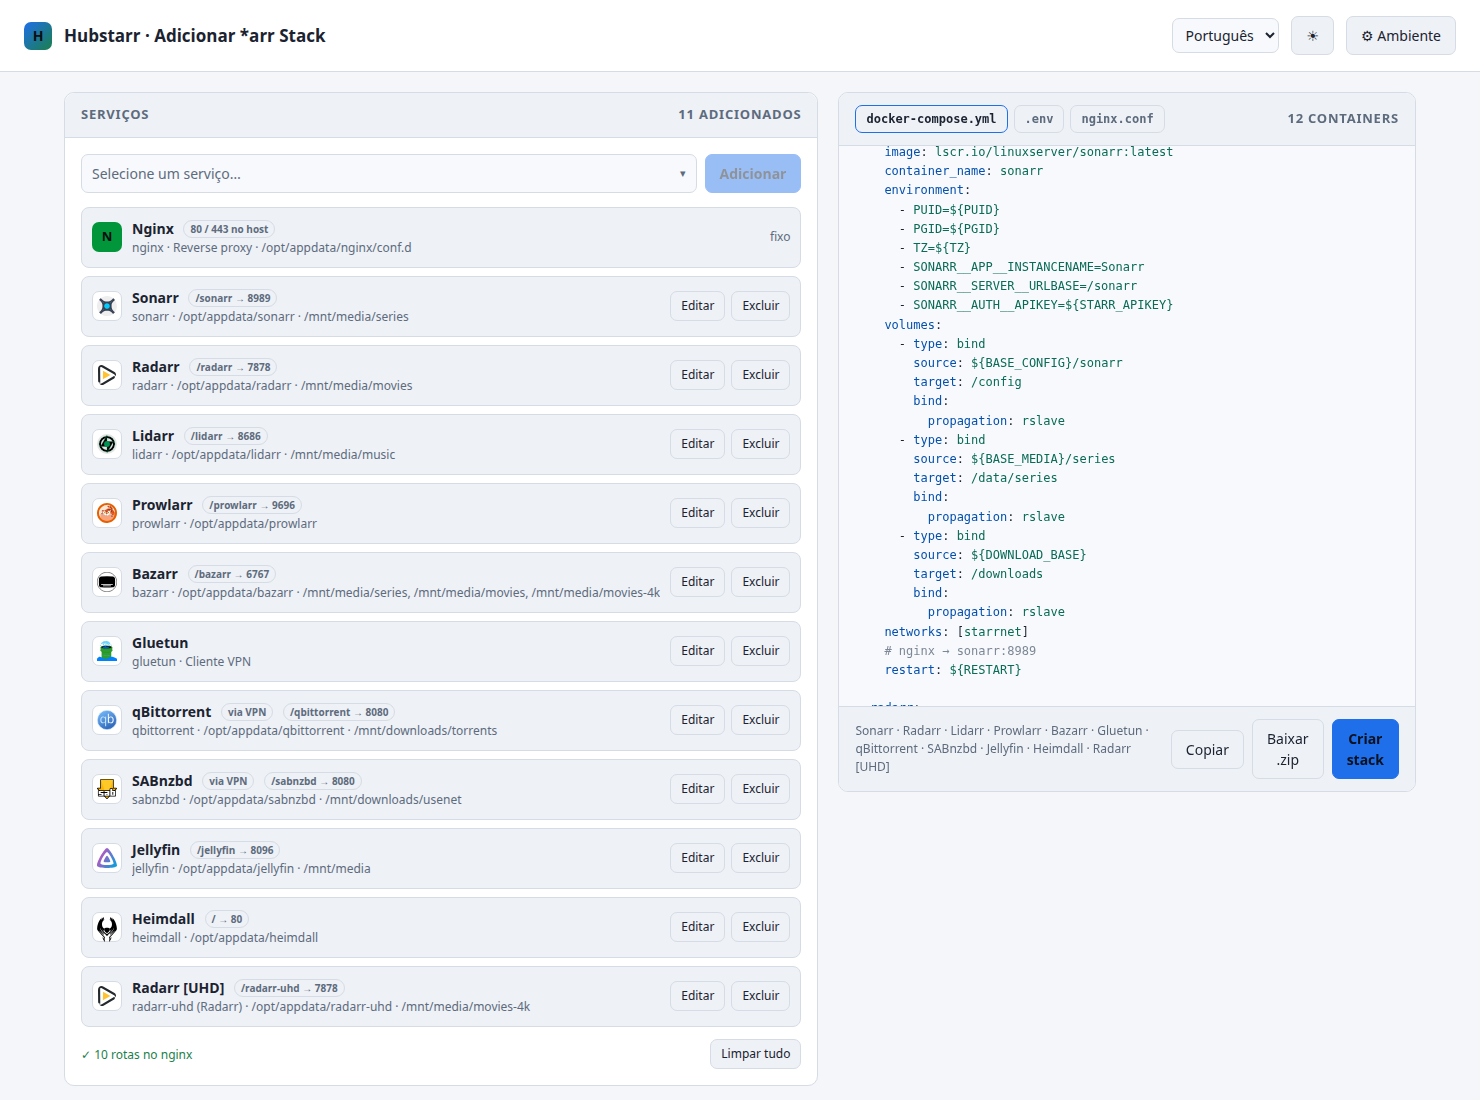
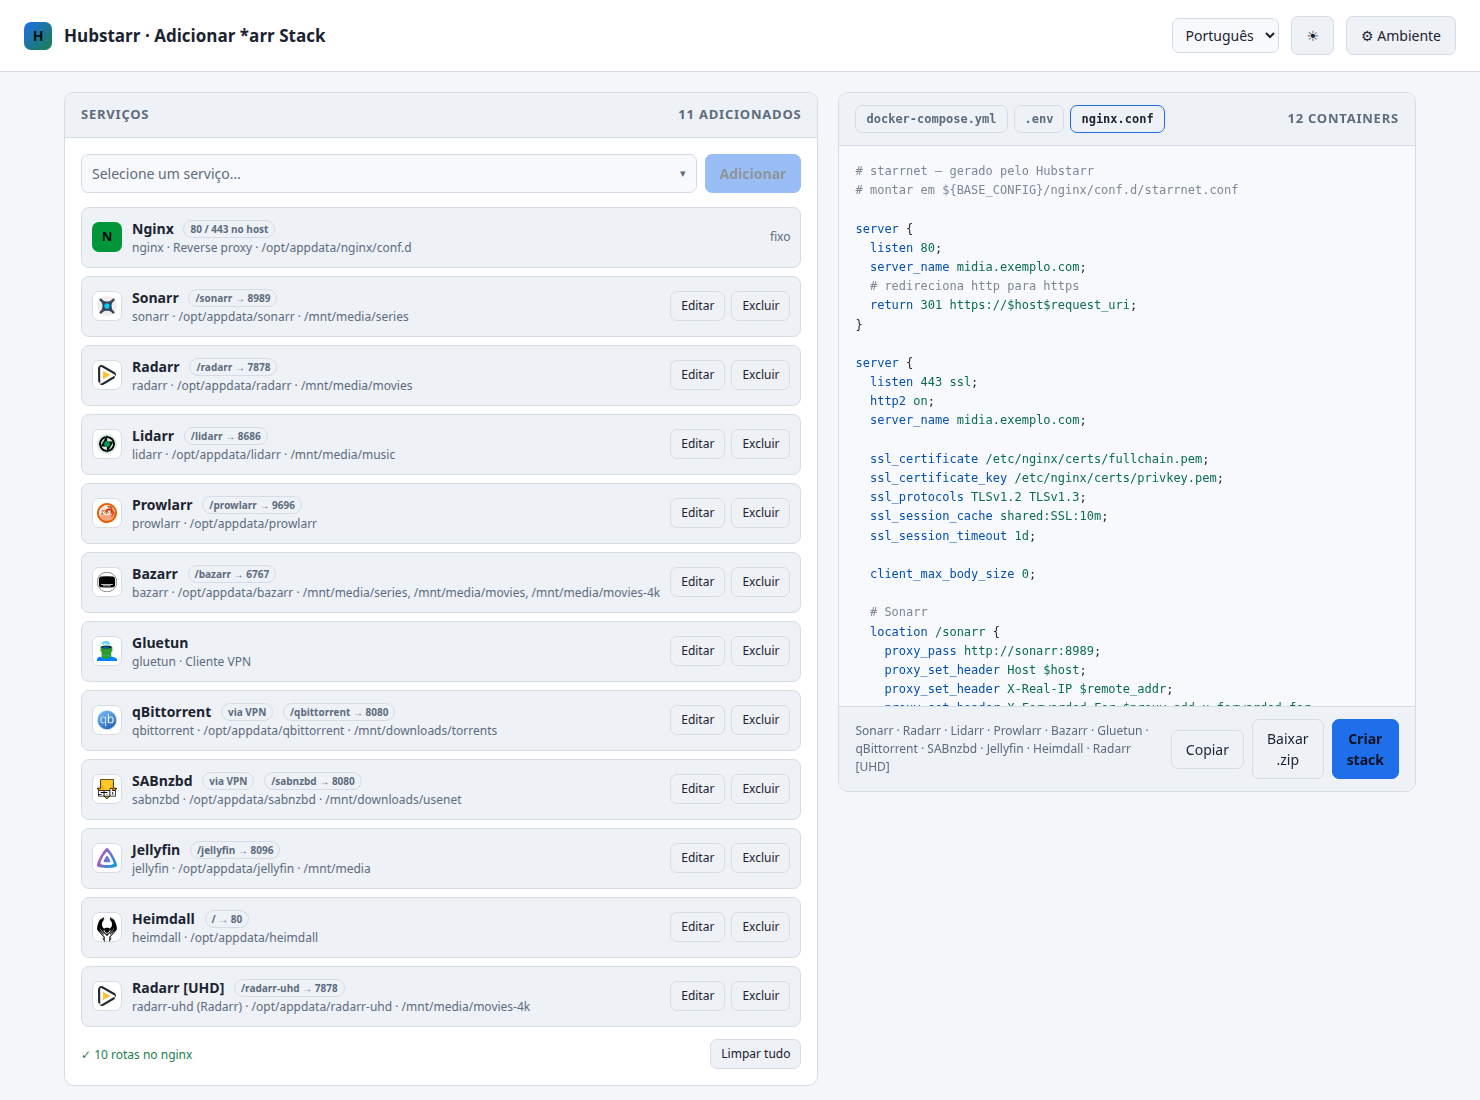
Serve a stack por HTTPS, com certificado configurável
O Ambiente ganha uma seção TLS: liga o https, o domínio vira server_name e os
caminhos do certificado e da chave, que são do host, entram no compose como
${TLS_CERT} e ${TLS_KEY}, montados só-leitura em /etc/nginx/certs.

Com o TLS ligado o nginx.conf passa a ter o server na 443 — TLSv1.2/1.3, http2
e cache de sessão — e um na 80 que só redireciona. Desligado, nada muda.

Claude-Session: https://claude.ai/code/session_015LuLcnjAzBdqJZcLS8RGMy

Changed region(s): [[0.5905, 0.0927, 0.8081, 0.6491]]

diff --git a/arr-stack-prototype.html b/arr-stack-prototype.html
@@ -220,6 +220,20 @@
       <p class="hint" data-i18n-html="env.apiHint" style="margin:-2px 0 12px"></p>
 
       <h4 style="margin:18px 0 10px;font-size:12px;text-transform:uppercase;
+                 letter-spacing:.06em;color:var(--muted)" data-i18n="env.secTls">TLS</h4>
+      <div class="row"><label for="eTls" data-i18n="env.tlsOn">Servir HTTPS</label>
+        <label class="check"><input type="checkbox" id="eTls"> 443</label></div>
+      <div class="row"><label for="eDomain" data-i18n="env.domain">Domínio</label>
+        <input type="text" id="eDomain" data-i18n-ph="env.phDomain"></div>
+      <div id="eTlsRows">
+        <div class="row"><label for="eCert" data-i18n="env.cert">Certificado (host)</label>
+          <input type="text" id="eCert"></div>
+        <div class="row"><label for="eTlsKey" data-i18n="env.key">Chave privada (host)</label>
+          <input type="text" id="eTlsKey"></div>
+      </div>
+      <p class="hint" data-i18n-html="env.tlsHint" style="margin:-2px 0 12px"></p>
+
+      <h4 style="margin:18px 0 10px;font-size:12px;text-transform:uppercase;
                  letter-spacing:.06em;color:var(--muted)" data-i18n="env.vpn">VPN (gluetun)</h4>
       <div class="row"><label for="eVpnProv" data-i18n="env.provider">Provedor</label>
         <input type="text" id="eVpnProv" placeholder="mullvad, protonvpn, nordvpn…"></div>
@@ -377,6 +391,14 @@ const I18N = {
   'env.secApi':'API key (*arr)',
   'env.apiHint':'A mesma chave vale para todos os *arr, como um <b>openssl rand -hex 16</b>.',
   'btn.gen':'Gerar',
+  'env.secTls':'TLS',
+  'env.tlsOn':'Servir HTTPS',
+  'env.domain':'Domínio',
+  'env.cert':'Certificado (host)',
+  'env.key':'Chave privada (host)',
+  'env.tlsHint':'Os caminhos são do host e entram no compose como <b>${TLS_CERT}</b> e <b>${TLS_KEY}</b>, montados só-leitura no nginx. Sem TLS, a stack fica só na porta 80.',
+  'env.phDomain':'midia.seudominio.com',
+  'ngx.redirect':'redireciona http para https',
   'env.phProvider':'seu-provedor',
   'env.phKey':'SUA_CHAVE_PRIVADA',
   'env.phUser':'usuario',
@@ -489,6 +511,14 @@ const I18N = {
   'env.secApi':'API key (*arr)',
   'env.apiHint':'One key for every *arr, like an <b>openssl rand -hex 16</b>.',
   'btn.gen':'Generate',
+  'env.secTls':'TLS',
+  'env.tlsOn':'Serve HTTPS',
+  'env.domain':'Domain',
+  'env.cert':'Certificate (host)',
+  'env.key':'Private key (host)',
+  'env.tlsHint':'These are host paths; they land in the compose file as <b>${TLS_CERT}</b> and <b>${TLS_KEY}</b>, mounted read-only into nginx. Without TLS the stack stays on port 80 only.',
+  'env.phDomain':'media.yourdomain.com',
+  'ngx.redirect':'redirects http to https',
   'env.phProvider':'your-provider',
   'env.phKey':'YOUR_PRIVATE_KEY',
   'env.phUser':'username',
@@ -601,6 +631,14 @@ const I18N = {
   'env.secApi':'API key (*arr)',
   'env.apiHint':'La misma clave vale para todos los *arr, como un <b>openssl rand -hex 16</b>.',
   'btn.gen':'Generar',
+  'env.secTls':'TLS',
+  'env.tlsOn':'Servir HTTPS',
+  'env.domain':'Dominio',
+  'env.cert':'Certificado (host)',
+  'env.key':'Clave privada (host)',
+  'env.tlsHint':'Las rutas son del host y entran en el compose como <b>${TLS_CERT}</b> y <b>${TLS_KEY}</b>, montadas de solo lectura en nginx. Sin TLS, la stack se queda solo en el puerto 80.',
+  'env.phDomain':'media.tudominio.com',
+  'ngx.redirect':'redirige http a https',
   'env.phProvider':'tu-proveedor',
   'env.phKey':'TU_CLAVE_PRIVADA',
   'env.phUser':'usuario',
@@ -687,6 +725,9 @@ const APIKEY_ENV = {sonarr:'SONARR__AUTH__APIKEY', radarr:'RADARR__AUTH__APIKEY'
                     lidarr:'LIDARR__AUTH__APIKEY', prowlarr:'PROWLARR__AUTH__APIKEY'};
 // variável única que carrega a chave de todos os *arr
 const APIKEY_VAR = 'STARR_APIKEY';
+// onde o certificado e a chave aparecem dentro do container do nginx
+const TLS_CERT = '/etc/nginx/certs/fullchain.pem';
+const TLS_KEY  = '/etc/nginx/certs/privkey.pem';
 // equivalente a `openssl rand -hex 16`
 const randKey = ()=> Array.from(crypto.getRandomValues(new Uint8Array(16)))
   .map(b=>b.toString(16).padStart(2,'0')).join('');
@@ -769,6 +810,9 @@ const DEFAULTS = {restart:'unless-stopped',
                   // gluetun
                   // chave de API por app, preenchida no Ambiente
                   apiKey:randKey(),
+                  // TLS no nginx: caminhos do host, montados só-leitura
+                  tls:false, domain:'', cert:'/etc/letsencrypt/live/exemplo/fullchain.pem',
+                  tlsKey:'/etc/letsencrypt/live/exemplo/privkey.pem',
                   vpnProv:'mullvad', vpnType:'wireguard',
                   wgKey:'', wgAddr:'', ovpnUser:'', ovpnPass:'', countries:''};
 
@@ -1004,6 +1048,9 @@ function openEnv(){
   $('#eOvpnUser').value=DEFAULTS.ovpnUser; $('#eOvpnPass').value=DEFAULTS.ovpnPass;
   $('#eCountries').value=DEFAULTS.countries;
   $('#eApiKey').value = DEFAULTS.apiKey;
+  $('#eTls').checked = DEFAULTS.tls; $('#eDomain').value = DEFAULTS.domain;
+  $('#eCert').value = DEFAULTS.cert; $('#eTlsKey').value = DEFAULTS.tlsKey;
+  tlsRows();
   vpnRows();
   $('#ePuid').value=DEFAULTS.puid; $('#ePgid').value=DEFAULTS.pgid;
   $('#eTz').value=DEFAULTS.tz; $('#eCfg').value=DEFAULTS.cfg; $('#eData').value=DEFAULTS.data;
@@ -1021,6 +1068,10 @@ function vpnRows(){
 }
 $('#eVpnType').addEventListener('change', vpnRows);
 $('#eApiGen').onclick = ()=> $('#eApiKey').value = randKey();
+
+// caminhos de certificado só interessam com o TLS ligado
+function tlsRows(){ $('#eTlsRows').style.display = $('#eTls').checked ? 'block' : 'none'; }
+$('#eTls').addEventListener('change', ()=>{ tlsRows(); render(); });
 
 /* ---------- tema claro/escuro ---------- */
 function setTheme(t){
@@ -1052,6 +1103,8 @@ $('#eSave').onclick = ()=>{
     ovpnUser:$('#eOvpnUser').value.trim(), ovpnPass:$('#eOvpnPass').value.trim(),
     countries:$('#eCountries').value.trim()});
   DEFAULTS.apiKey = $('#eApiKey').value.trim() || randKey();
+  Object.assign(DEFAULTS, {tls:$('#eTls').checked, domain:$('#eDomain').value.trim(),
+    cert:$('#eCert').value.trim(), tlsKey:$('#eTlsKey').value.trim()});
   closeEnv(); renderItems(); render();
 };
 
@@ -1086,6 +1139,15 @@ function build(){
   L.push(`        <span class="k">source</span>: <span class="v">\${BASE_CONFIG}/${NGINX.id}/conf.d</span>`);
   L.push(`        <span class="k">target</span>: <span class="v">/etc/nginx/conf.d</span>`);
   L.push(`        <span class="k">read_only</span>: <span class="v">true</span>`);
+  if(DEFAULTS.tls){
+    // certificado e chave chegam do host, cada um no seu caminho fixo
+    [['TLS_CERT', TLS_CERT], ['TLS_KEY', TLS_KEY]].forEach(([v, target])=>{
+      L.push(`      - <span class="k">type</span>: <span class="v">bind</span>`);
+      L.push(`        <span class="k">source</span>: <span class="v">\${${v}}</span>`);
+      L.push(`        <span class="k">target</span>: <span class="v">${target}</span>`);
+      L.push(`        <span class="k">read_only</span>: <span class="v">true</span>`);
+    });
+  }
   L.push(`    <span class="k">networks</span>: [<span class="v">${NETWORK}</span>]`);
   L.push(`    <span class="k">restart</span>: <span class="v">${restart}</span>`);
 
@@ -1169,10 +1231,36 @@ function buildNginx(list){
   const N=[];
   N.push(`<span class="c"># ${STACK} — ${t('ngx.head')}</span>`);
   N.push(`<span class="c"># ${t('ngx.mount', `\${BASE_CONFIG}/${NGINX.id}/conf.d/${STACK}.conf`)}</span>`);
+  const name = DEFAULTS.domain || '_';
   N.push(``);
+
+  if(DEFAULTS.tls){
+    // porta 80 só existe para mandar todo mundo para o https
+    N.push(`<span class="k">server</span> {`);
+    N.push(`  <span class="k">listen</span> <span class="v">80</span>;`);
+    N.push(`  <span class="k">server_name</span> <span class="v">${name}</span>;`);
+    N.push(`  <span class="c"># ${t('ngx.redirect')}</span>`);
+    N.push(`  <span class="k">return</span> <span class="v">301 https://$host$request_uri</span>;`);
+    N.push(`}`);
+    N.push(``);
+  }
+
   N.push(`<span class="k">server</span> {`);
-  N.push(`  <span class="k">listen</span> <span class="v">80</span>;`);
-  N.push(`  <span class="k">server_name</span> <span class="v">_</span>;`);
+  if(DEFAULTS.tls){
+    N.push(`  <span class="k">listen</span> <span class="v">443 ssl</span>;`);
+    N.push(`  <span class="k">http2</span> <span class="v">on</span>;`);
+  } else {
+    N.push(`  <span class="k">listen</span> <span class="v">80</span>;`);
+  }
+  N.push(`  <span class="k">server_name</span> <span class="v">${name}</span>;`);
+  if(DEFAULTS.tls){
+    N.push(``);
+    N.push(`  <span class="k">ssl_certificate</span> <span class="v">${TLS_CERT}</span>;`);
+    N.push(`  <span class="k">ssl_certificate_key</span> <span class="v">${TLS_KEY}</span>;`);
+    N.push(`  <span class="k">ssl_protocols</span> <span class="v">TLSv1.2 TLSv1.3</span>;`);
+    N.push(`  <span class="k">ssl_session_cache</span> <span class="v">shared:SSL:10m</span>;`);
+    N.push(`  <span class="k">ssl_session_timeout</span> <span class="v">1d</span>;`);
+  }
   N.push(``);
   N.push(`  <span class="k">client_max_body_size</span> <span class="v">0</span>;`);
 
@@ -1230,6 +1318,12 @@ function buildEnv(list){
     E.push(``);
     E.push(`<span class="c"># ${t('env.secApi')}</span>`);
     E.push(`<span class="k">${APIKEY_VAR}</span>=<span class="v">${DEFAULTS.apiKey}</span>`);
+  }
+  if(DEFAULTS.tls){
+    E.push(``);
+    E.push(`<span class="c"># ${t('env.secTls')}</span>`);
+    E.push(`<span class="k">TLS_CERT</span>=${val(DEFAULTS.cert,'/caminho/fullchain.pem')}`);
+    E.push(`<span class="k">TLS_KEY</span>=${val(DEFAULTS.tlsKey,'/caminho/privkey.pem')}`);
   }
   if(list.some(a=>a.id==='gluetun')){
     E.push(``);

diff --git a/README.md b/README.md
@@ -7,7 +7,7 @@ de mídia), sem backend e sem dependências externas.
 Abra `arr-stack-prototype.html` no navegador. É só isso — o arquivo é
 autocontido (os logotipos vêm embutidos como data URI).
 
-![A interface: lista de serviços à esquerda, docker-compose.yml gerado à direita](docs/screenshot.png)
+![A interface: lista de serviços à esquerda, arquivos gerados à direita](docs/screenshot.png)
 
 O combobox lista os serviços disponíveis com seus logotipos e portas padrão:
 
@@ -81,6 +81,13 @@ não pode ser removido. É o único container que publica portas no host (80 e
 443) — todos os outros ficam só na rede `starrnet`, alcançados pelo nginx por
 `nome-do-container:porta-interna`. Quem roteia pela VPN responde no `gluetun`,
 que é quem detém a rede.
+
+No Ambiente dá para ligar o **TLS**: o `nginx.conf` passa a ter um `server` na
+443 com `ssl_certificate`, TLSv1.2/1.3 e um bloco na 80 que só redireciona para
+o https. O certificado e a chave são caminhos do host, informados no mesmo
+lugar, e entram no compose como `${TLS_CERT}` e `${TLS_KEY}`, montados
+só-leitura em `/etc/nginx/certs`. Sem TLS, a stack fica só na 80. O domínio
+informado vira o `server_name` (na falta dele, `_`).
 
 A aba **nginx.conf** gera a configuração correspondente, roteando por subpath
 (`/sonarr`, `/radarr`…), um `location` por serviço. O Heimdall é a exceção:
